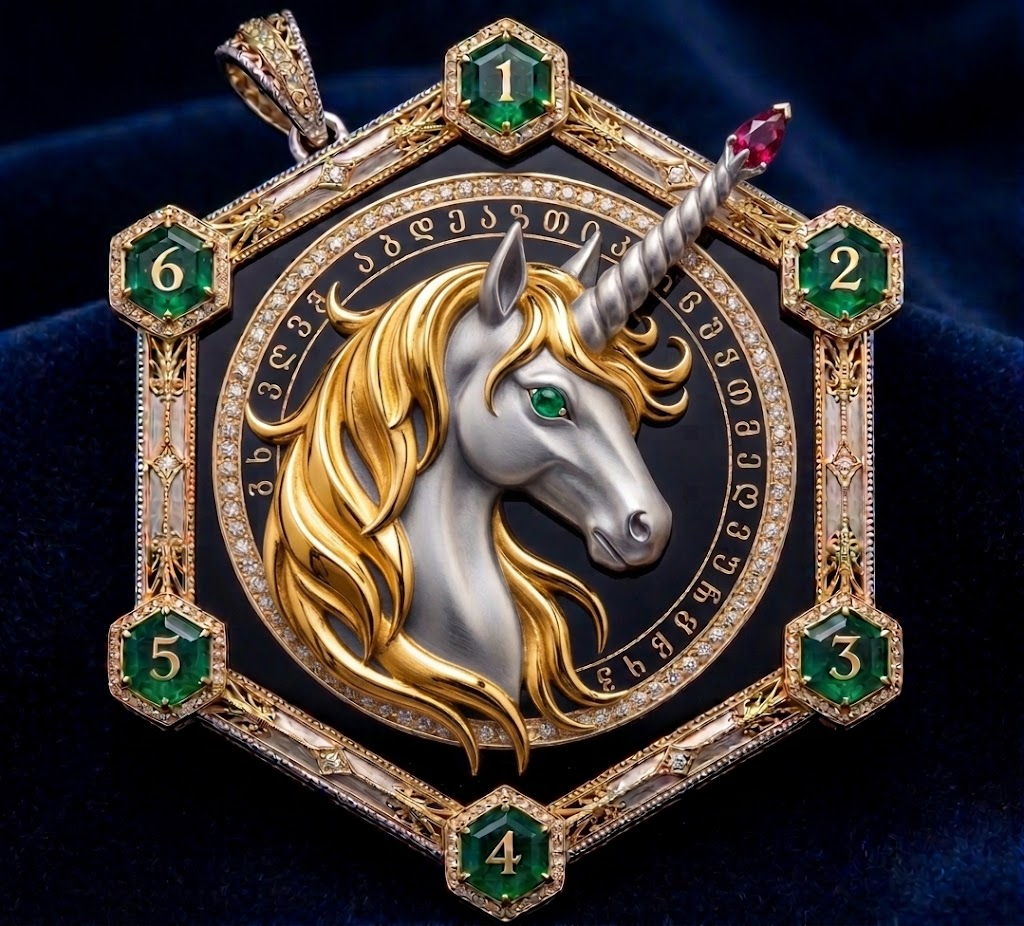
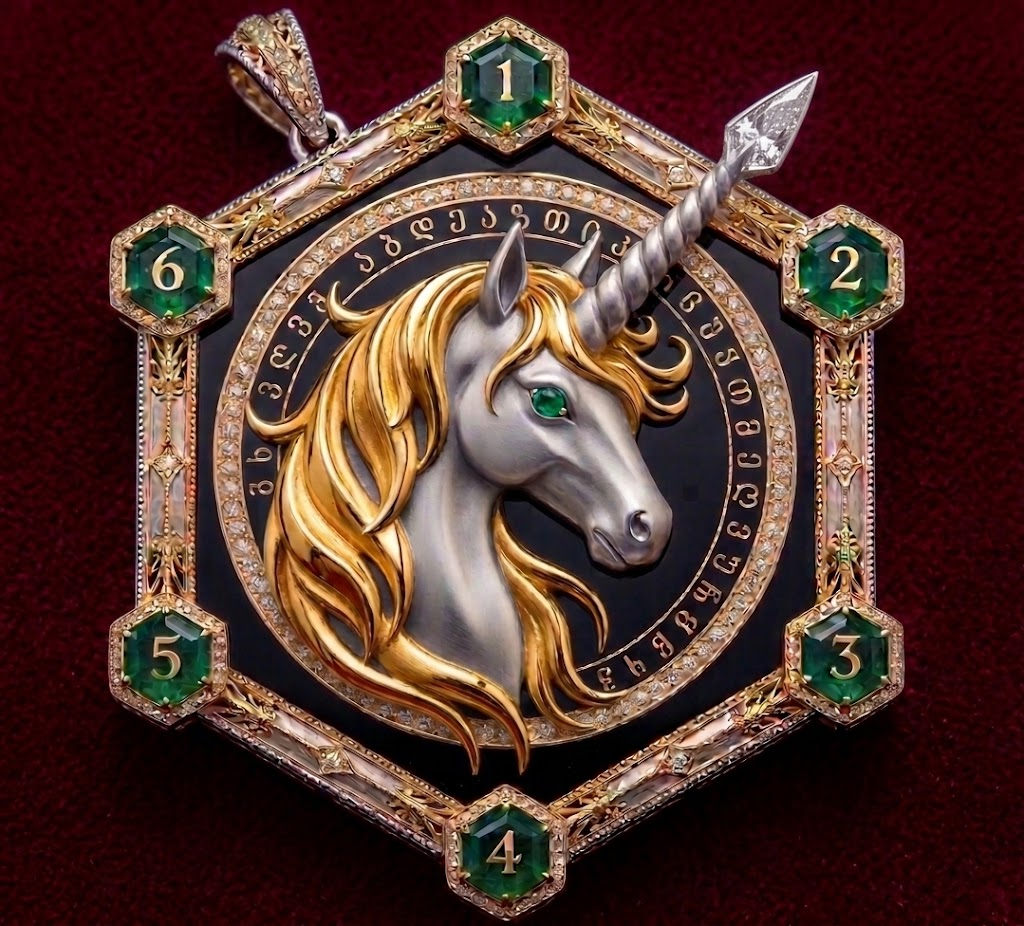
chore: update project build artifacts and content

diff --git a/projects/maj/index.html b/projects/maj/index.html
@@ -28,18 +28,12 @@
 
 <p class="text-center text-secondary mb-4">Minimalist artificial language: Entertaining and Original.</p>
 
-<div class="row justify-content-center mt-3 mb-2">
-    <div class="col-md-10">
-        <div class="ratio ratio-16x9 shadow rounded border">
-            <iframe
-                src="https://www.youtube.com/embed/NMOYRhRSITQ"
-                title="Project Maj — Introduction"
-                allow="accelerometer; autoplay; clipboard-write; encrypted-media; gyroscope; picture-in-picture; web-share"
-                referrerpolicy="strict-origin-when-cross-origin"
-                allowfullscreen>
-            </iframe>
-        </div>
-    </div>
+<div class="text-center" >
+  <a href="https://discord.gg/Y8Bredb3eW" target="_blank"
+      rel="nofollow noopener noreferrer" title="Maj School">
+  <img src="/projects/maj/img/medalion.jpg" alt="MAJ" width="200" class="img-fluid round-img">
+  <p>Invitation to Discord<br>(Maj School)</p> 
+  </a>
 </div>
 
 <div class="card-grid-steps">
@@ -71,34 +65,17 @@
     </div>
 </div>
 
-<h3>Discord Community</h3>
-
-<p>At the beginning there was Maj Language, then we have created the "Maj School" (a discord server). This is a language exchange community where we teach you Maj and you can teach us your native language. On Discord server we have dedicated chat rooms for eight (for now) other popular human languages. You can use voice and video chat to connect with other learners. Join us to start practicing a second language. We use AI to create pictures and short text to make Discord itself a content resource for active learning.</p>
-
-
-<div class="text-center" >
-  <a href="https://discord.gg/Y8Bredb3eW" target="_blank"
-      rel="nofollow noopener noreferrer" title="Maj School">
-  <img src="/projects/maj/img/medalion.jpg" alt="MAJ" width="200" class="img-fluid round-img">
-  <p>Invitation to Discord<br>(Maj School)</p> 
-  </a>
-</div>
-
-<div class="alert alert-info"><b>Join the Journey: </b>
- We are creating new YouTube training videos and finalizing the Maj lexicon. We plan to create APPs for learning Maj on your computer, disconnected from internet. There is a lot of work ahead, and your support makes all the difference. We invite you to explore our videos and share your thoughts in the comments. If you appreciate what we’re building, please let your friends know about Maj School so they can join us!</div>
-
-
 <div class="text-center">
   <a href="https://www.youtube.com/watch?v=huo_-tbjZxo&list=PLK7peGBzyN7jb9DIMBxvbGldLITfGcPt_&index=3" 
   target="_blank" rel="noopener noreferrer">
      <img src="/images/youtube.svg"
-      width="200" alt="Maj PlayList"><p>▶ Watch Now</p>
+      width="200" alt="Maj PlayList"><p>▶ Maj School</p>
   </a>
 </div>
 
 <h2>Download Resources</h2>
 
-<p>To support your language journey, we offer comprehensive PDF resources via our Ko-fi Store. We utilize a 'Pay What You Want' model to keep learning accessible. While many resources are available for free, our Maj Subscribers receive exclusive access to full library and lifetime updates. We offer a limited run of 100 free copies per title; once the threshold is reached, pricing models will transition to regular minimal price between 1$ to 10$ depending on book size. Reserve your copy as soon as possible before this free opportunity is gone.</p>
+<p>We offer PDF resources via Ko-fi Store. You can Pay What You Want. Some of our resources are available for free, however subscribers receive exclusive access to full library and updates.</p>
 
 
 <div class="container">
